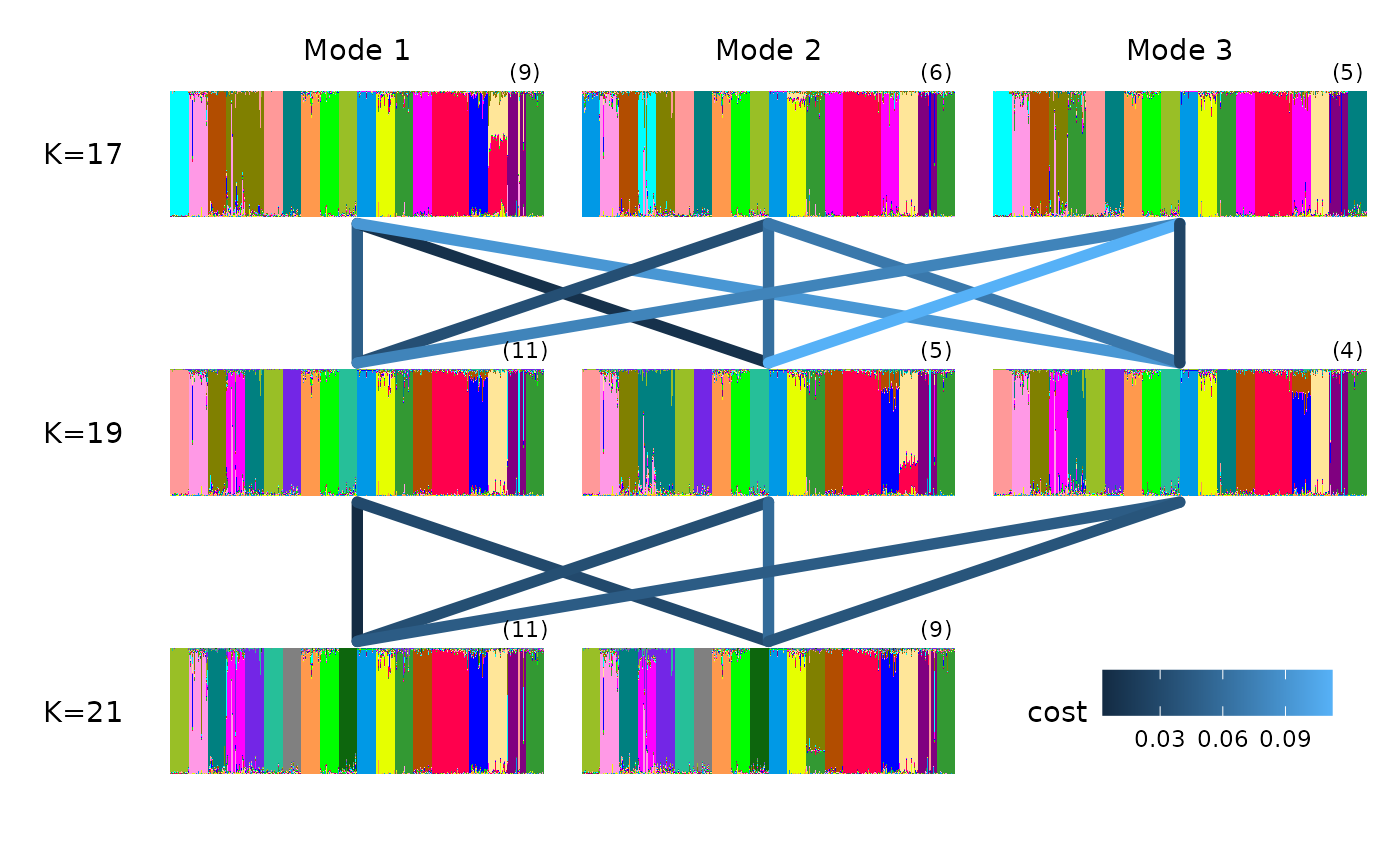
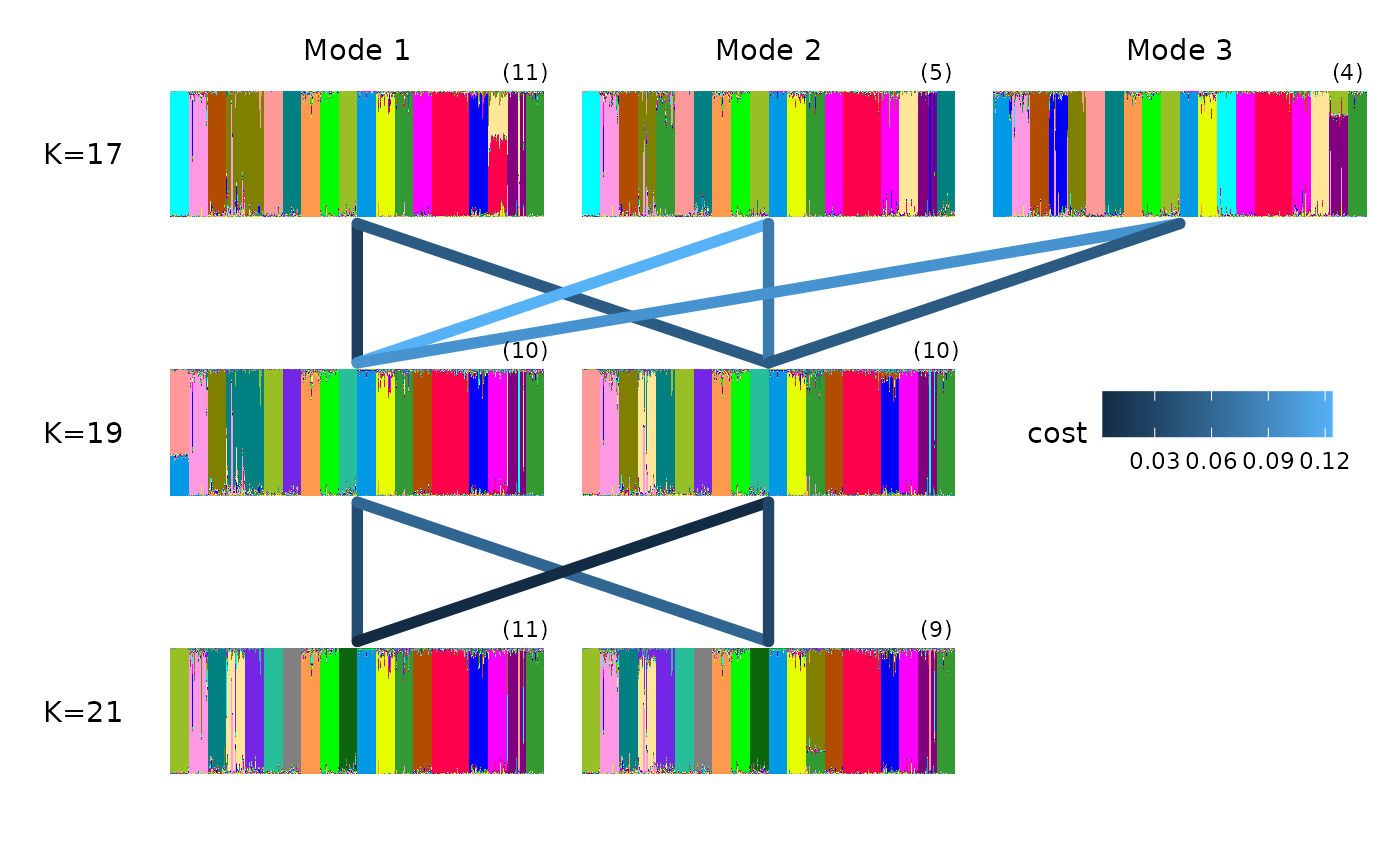
Deploying to gh-pages from @ EvolEcolGroup/tidygenclust@42a4b8d2eb88a1ac18ebc09df4c3a4e124166b53 🚀

diff --git a/reference/tgc_tools_install.html b/reference/tgc_tools_install.html
@@ -1,12 +1,11 @@
 <!DOCTYPE html>
-<!-- Generated by pkgdown: do not edit by hand --><html lang="en"><head><meta http-equiv="Content-Type" content="text/html; charset=UTF-8"><meta charset="utf-8"><meta http-equiv="X-UA-Compatible" content="IE=edge"><meta name="viewport" content="width=device-width, initial-scale=1.0"><title>Install tools for tidygenclust — tgc_tools_install • tidygenclust</title><!-- jquery --><script src="https://cdnjs.cloudflare.com/ajax/libs/jquery/3.7.1/jquery.min.js" integrity="sha512-v2CJ7UaYy4JwqLDIrZUI/4hqeoQieOmAZNXBeQyjo21dadnwR+8ZaIJVT8EE2iyI61OV8e6M8PP2/4hpQINQ/g==" crossorigin="anonymous" referrerpolicy="no-referrer"></script><!-- Bootstrap --><link rel="stylesheet" href="https://cdnjs.cloudflare.com/ajax/libs/twitter-bootstrap/3.4.1/css/bootstrap.min.css" integrity="sha256-bZLfwXAP04zRMK2BjiO8iu9pf4FbLqX6zitd+tIvLhE=" crossorigin="anonymous"><script src="https://cdnjs.cloudflare.com/ajax/libs/twitter-bootstrap/3.4.1/js/bootstrap.min.js" integrity="sha256-nuL8/2cJ5NDSSwnKD8VqreErSWHtnEP9E7AySL+1ev4=" crossorigin="anonymous"></script><!-- bootstrap-toc --><link rel="stylesheet" href="../bootstrap-toc.css"><script src="../bootstrap-toc.js"></script><!-- Font Awesome icons --><link rel="stylesheet" href="https://cdnjs.cloudflare.com/ajax/libs/font-awesome/5.12.1/css/all.min.css" integrity="sha256-mmgLkCYLUQbXn0B1SRqzHar6dCnv9oZFPEC1g1cwlkk=" crossorigin="anonymous"><link rel="stylesheet" href="https://cdnjs.cloudflare.com/ajax/libs/font-awesome/5.12.1/css/v4-shims.min.css" integrity="sha256-wZjR52fzng1pJHwx4aV2AO3yyTOXrcDW7jBpJtTwVxw=" crossorigin="anonymous"><!-- clipboard.js --><script src="https://cdnjs.cloudflare.com/ajax/libs/clipboard.js/2.0.6/clipboard.min.js" integrity="sha256-inc5kl9MA1hkeYUt+EC3BhlIgyp/2jDIyBLS6k3UxPI=" crossorigin="anonymous"></script><!-- headroom.js --><script src="https://cdnjs.cloudflare.com/ajax/libs/headroom/0.11.0/headroom.min.js" integrity="sha256-AsUX4SJE1+yuDu5+mAVzJbuYNPHj/WroHuZ8Ir/CkE0=" crossorigin="anonymous"></script><script src="https://cdnjs.cloudflare.com/ajax/libs/headroom/0.11.0/jQuery.headroom.min.js" integrity="sha256-ZX/yNShbjqsohH1k95liqY9Gd8uOiE1S4vZc+9KQ1K4=" crossorigin="anonymous"></script><!-- pkgdown --><link href="../pkgdown.css" rel="stylesheet"><script src="../pkgdown.js"></script><meta property="og:title" content="Install tools for tidygenclust — tgc_tools_install"><meta property="og:description" content="tidygenclust relies on ADMIXTURE and on python packages fastmixture
-and clumppling for a number of
-functionalities. We use reticulate to install them in conda
-environments. As their dependencies are incompatible, we use two separate
-conda environments, ctidygenclust (for fastmixture and admixture) and
-cclumppling (for clumppling). Additionally, for silicon Macs, ADMIXTURE
-is installed in a separate conda environment cadmixture86, as it is only
-available for OSX as x86 in bioconda."><meta property="og:image" content="/logo.png"><!-- mathjax --><script src="https://cdnjs.cloudflare.com/ajax/libs/mathjax/2.7.5/MathJax.js" integrity="sha256-nvJJv9wWKEm88qvoQl9ekL2J+k/RWIsaSScxxlsrv8k=" crossorigin="anonymous"></script><script src="https://cdnjs.cloudflare.com/ajax/libs/mathjax/2.7.5/config/TeX-AMS-MML_HTMLorMML.js" integrity="sha256-84DKXVJXs0/F8OTMzX4UR909+jtl4G7SPypPavF+GfA=" crossorigin="anonymous"></script><!--[if lt IE 9]>
+<!-- Generated by pkgdown: do not edit by hand --><html lang="en"><head><meta http-equiv="Content-Type" content="text/html; charset=UTF-8"><meta charset="utf-8"><meta http-equiv="X-UA-Compatible" content="IE=edge"><meta name="viewport" content="width=device-width, initial-scale=1.0"><title>Install tools for tidygenclust — tgc_tools_install • tidygenclust</title><!-- jquery --><script src="https://cdnjs.cloudflare.com/ajax/libs/jquery/3.7.1/jquery.min.js" integrity="sha512-v2CJ7UaYy4JwqLDIrZUI/4hqeoQieOmAZNXBeQyjo21dadnwR+8ZaIJVT8EE2iyI61OV8e6M8PP2/4hpQINQ/g==" crossorigin="anonymous" referrerpolicy="no-referrer"></script><!-- Bootstrap --><link rel="stylesheet" href="https://cdnjs.cloudflare.com/ajax/libs/twitter-bootstrap/3.4.1/css/bootstrap.min.css" integrity="sha256-bZLfwXAP04zRMK2BjiO8iu9pf4FbLqX6zitd+tIvLhE=" crossorigin="anonymous"><script src="https://cdnjs.cloudflare.com/ajax/libs/twitter-bootstrap/3.4.1/js/bootstrap.min.js" integrity="sha256-nuL8/2cJ5NDSSwnKD8VqreErSWHtnEP9E7AySL+1ev4=" crossorigin="anonymous"></script><!-- bootstrap-toc --><link rel="stylesheet" href="../bootstrap-toc.css"><script src="../bootstrap-toc.js"></script><!-- Font Awesome icons --><link rel="stylesheet" href="https://cdnjs.cloudflare.com/ajax/libs/font-awesome/5.12.1/css/all.min.css" integrity="sha256-mmgLkCYLUQbXn0B1SRqzHar6dCnv9oZFPEC1g1cwlkk=" crossorigin="anonymous"><link rel="stylesheet" href="https://cdnjs.cloudflare.com/ajax/libs/font-awesome/5.12.1/css/v4-shims.min.css" integrity="sha256-wZjR52fzng1pJHwx4aV2AO3yyTOXrcDW7jBpJtTwVxw=" crossorigin="anonymous"><!-- clipboard.js --><script src="https://cdnjs.cloudflare.com/ajax/libs/clipboard.js/2.0.6/clipboard.min.js" integrity="sha256-inc5kl9MA1hkeYUt+EC3BhlIgyp/2jDIyBLS6k3UxPI=" crossorigin="anonymous"></script><!-- headroom.js --><script src="https://cdnjs.cloudflare.com/ajax/libs/headroom/0.11.0/headroom.min.js" integrity="sha256-AsUX4SJE1+yuDu5+mAVzJbuYNPHj/WroHuZ8Ir/CkE0=" crossorigin="anonymous"></script><script src="https://cdnjs.cloudflare.com/ajax/libs/headroom/0.11.0/jQuery.headroom.min.js" integrity="sha256-ZX/yNShbjqsohH1k95liqY9Gd8uOiE1S4vZc+9KQ1K4=" crossorigin="anonymous"></script><!-- pkgdown --><link href="../pkgdown.css" rel="stylesheet"><script src="../pkgdown.js"></script><meta property="og:title" content="Install tools for tidygenclust — tgc_tools_install"><meta property="og:description" content="tidygenclust relies on ADMIXTURE and on python packages fastmixture and
+clumppling for a number of functionalities. We use reticulate to install
+them in conda environments. As their dependencies are incompatible, we use
+two separate conda environments, ctidygenclust (for fastmixture and
+admixture) and cclumppling (for clumppling). Additionally, for silicon
+Macs, ADMIXTURE is installed in a separate conda environment
+cadmixture86, as it is only available for OSX as x86 in bioconda."><meta property="og:image" content="/logo.png"><!-- mathjax --><script src="https://cdnjs.cloudflare.com/ajax/libs/mathjax/2.7.5/MathJax.js" integrity="sha256-nvJJv9wWKEm88qvoQl9ekL2J+k/RWIsaSScxxlsrv8k=" crossorigin="anonymous"></script><script src="https://cdnjs.cloudflare.com/ajax/libs/mathjax/2.7.5/config/TeX-AMS-MML_HTMLorMML.js" integrity="sha256-84DKXVJXs0/F8OTMzX4UR909+jtl4G7SPypPavF+GfA=" crossorigin="anonymous"></script><!--[if lt IE 9]>
 <script src="https://oss.maxcdn.com/html5shiv/3.7.3/html5shiv.min.js"></script>
 <script src="https://oss.maxcdn.com/respond/1.4.2/respond.min.js"></script>
 <![endif]--></head><body data-spy="scroll" data-target="#toc">
@@ -24,7 +23,7 @@ available for OSX as x86 in bioconda."><meta property="og:image" content="/logo.
       </button>
       <span class="navbar-brand">
         <a class="navbar-link" href="../index.html">tidygenclust</a>
-        <span class="version label label-default" data-toggle="tooltip" data-placement="bottom" title="">0.1.1</span>
+        <span class="version label label-default" data-toggle="tooltip" data-placement="bottom" title="">0.1.2</span>
       </span>
     </div>
 
@@ -53,22 +52,21 @@ available for OSX as x86 in bioconda."><meta property="og:image" content="/logo.
     </div>
 
     <div class="ref-description">
-    <p><code>tidygenclust</code> relies on <code>ADMIXTURE</code> and on python packages <code>fastmixture</code>
-and <code>clumppling</code> for a number of
-functionalities. We use <code>reticulate</code> to install them in conda
-environments. As their dependencies are incompatible, we use two separate
-conda environments, <code>ctidygenclust</code> (for <code>fastmixture</code> and <code>admixture</code>) and
-<code>cclumppling</code> (for <code>clumppling</code>). Additionally, for silicon Macs, <code>ADMIXTURE</code>
-is installed in a separate conda environment <code>cadmixture86</code>, as it is only
-available for OSX as x86 in bioconda.</p>
+    <p><code>tidygenclust</code> relies on <code>ADMIXTURE</code> and on python packages <code>fastmixture</code> and
+<code>clumppling</code> for a number of functionalities. We use <code>reticulate</code> to install
+them in conda environments. As their dependencies are incompatible, we use
+two separate conda environments, <code>ctidygenclust</code> (for <code>fastmixture</code> and
+<code>admixture</code>) and <code>cclumppling</code> (for <code>clumppling</code>). Additionally, for silicon
+Macs, <code>ADMIXTURE</code> is installed in a separate conda environment
+<code>cadmixture86</code>, as it is only available for OSX as x86 in bioconda.</p>
     </div>
 
     <div id="ref-usage">
     <div class="sourceCode"><pre class="sourceCode r"><code><span><span class="fu">tgc_tools_install</span><span class="op">(</span></span>
 <span>  reset <span class="op">=</span> <span class="cn">FALSE</span>,</span>
-<span>  fastmixture_hash <span class="op">=</span> <span class="st">"29e04339ce6ddf750ee4e06f8aabe40335e0d0ee"</span>,</span>
+<span>  fastmixture_hash <span class="op">=</span> <span class="st">"1f03a8980be4872341e5faca9d6f2dfc7ccbfe35"</span>,</span>
 <span>  clumppling_hash <span class="op">=</span> <span class="st">"2d24e0b2f6ddfcb51a436df96a06d5f57d18d20a"</span>,</span>
-<span>  conda_method <span class="op">=</span> <span class="fu"><a href="https://rdrr.io/r/base/c.html" class="external-link">c</a></span><span class="op">(</span><span class="st">"reticulate"</span>, <span class="st">"conda_yaml"</span><span class="op">)</span>,</span>
+<span>  conda_yaml <span class="op">=</span> <span class="st">"auto"</span>,</span>
 <span>  ci_install <span class="op">=</span> <span class="cn">FALSE</span></span>
 <span><span class="op">)</span></span></code></pre></div>
     </div>
@@ -78,8 +76,8 @@ available for OSX as x86 in bioconda.</p>
 
 
 <dl><dt id="arg-reset">reset<a class="anchor" aria-label="anchor" href="#arg-reset"></a></dt>
-<dd><p>a boolean used to reset the virtual environment. Only set
-to TRUE if you have a broken virtual environment that you want to reset.</p></dd>
+<dd><p>a boolean used to reset the virtual environment. Only set to
+TRUE if you have a broken virtual environment that you want to reset.</p></dd>
 
 
 <dt id="arg-fastmixture-hash">fastmixture_hash<a class="anchor" aria-label="anchor" href="#arg-fastmixture-hash"></a></dt>
@@ -92,30 +90,34 @@ version to install. Default is the latest tested version.</p></dd>
 version to install. Default is the latest tested version.</p></dd>
 
 
-<dt id="arg-conda-method">conda_method<a class="anchor" aria-label="anchor" href="#arg-conda-method"></a></dt>
-<dd><p>a string indicating the method to create the environment
-used for <code>fastmixture</code>. Default is <code>reticulate</code>, which uses the
-<code><a href="https://rstudio.github.io/reticulate/reference/conda_run2.html" class="external-link">reticulate::conda_run2()</a></code> function to run the installation commands (this is
-the default, and the only method for Linux.
-Alternatively, for OSX, you can use <code>conda_yaml</code>, which will create a conda
-environment directly with conda. Use this second method if "reticulate" fails
-whilst trying to install on OSX.</p></dd>
+<dt id="arg-conda-yaml">conda_yaml<a class="anchor" aria-label="anchor" href="#arg-conda-yaml"></a></dt>
+<dd><p>A vector of string with the path for the <code>yaml</code> files used
+for installation (one for fastmixture, one for clumppling, and, for osx
+only, one for admixture in 86 compatibility model). The value of each
+string can either be "auto" (the default, select the latest available yaml
+that has been tested to work on a given operating system), NULL (let conda
+attempt to install the latest available packages from the internet), or a
+path to a specific conda yaml found in "inst/env_snapshots". For "auto" or
+NULL, it is also possible to provide a vector of lenght one, and the value
+will apply to all the conda environments (e.g. <code>conda_yaml="auto"</code> is
+equivalent to  <code>conda_yaml = c("auto", "auto")</code> in linux and
+<code>conda_yaml = c("auto", "auto", "auto")</code>.</p></dd>
 
 
 <dt id="arg-ci-install">ci_install<a class="anchor" aria-label="anchor" href="#arg-ci-install"></a></dt>
 <dd><p>a boolean indicating if the installation is being run on
 continuous integration (CI) services. Default is FALSE. If TRUE, the
-function will look for the conda yaml file in the <code>inst/python</code> folder
-of the package source directory, rather than in the installed package
+function will look for the conda yaml file in the <code>inst/python</code> folder of
+the package source directory, rather than in the installed package
 directory. This is useful when testing the package on CI services.</p></dd>
 
 </dl></div>
     <div id="details">
     <h2>Details</h2>
-    <p>For each tool, default to the latest tested version of
-these packages that have been tested to work with <code>tidegenclust</code>. It is
-possible to provide a more recent github commit for a specific tool, but
-this might lead to incompatibilities and errors.</p>
+    <p>For each tool, default to the latest tested version of these
+packages that have been tested to work with <code>tidegenclust</code>. It is possible
+to provide a more recent github commit for a specific tool, but this might
+lead to incompatibilities and errors.</p>
 <p>We have found installation on OSX to be tricky, so we provide two methods
 for installing <code>fastmixture</code> on OSX: <code>reticulate</code> and <code>conda_yaml</code>. The
 <code>reticulate</code> method uses the <code><a href="https://rstudio.github.io/reticulate/reference/conda_run2.html" class="external-link">reticulate::conda_run2()</a></code> function to run

diff --git a/news/index.html b/news/index.html
@@ -17,7 +17,7 @@
       </button>
       <span class="navbar-brand">
         <a class="navbar-link" href="../index.html">tidygenclust</a>
-        <span class="version label label-default" data-toggle="tooltip" data-placement="bottom" title="">0.1.1</span>
+        <span class="version label label-default" data-toggle="tooltip" data-placement="bottom" title="">0.1.2</span>
       </span>
     </div>
 
@@ -44,6 +44,11 @@
 
     </div>
 
+    <div class="section level2">
+<h2 class="page-header" data-toc-text="0.1.2" id="tidygenclust-012">tidygenclust 0.1.2<a class="anchor" aria-label="anchor" href="#tidygenclust-012"></a></h2>
+<ul><li>Updated versions of fastmixture</li>
+<li>Use pre-tested conda environments to avoid dependency hell.</li>
+</ul></div>
     <div class="section level2">
 <h2 class="page-header" data-toc-text="0.1.1" id="tidygenclust-011">tidygenclust 0.1.1<a class="anchor" aria-label="anchor" href="#tidygenclust-011"></a></h2>
 <ul><li>Updated versions of fastmixture and clumppling</li>

diff --git a/authors.html b/authors.html
@@ -17,7 +17,7 @@
       </button>
       <span class="navbar-brand">
         <a class="navbar-link" href="index.html">tidygenclust</a>
-        <span class="version label label-default" data-toggle="tooltip" data-placement="bottom" title="">0.1.1</span>
+        <span class="version label label-default" data-toggle="tooltip" data-placement="bottom" title="">0.1.2</span>
       </span>
     </div>
 
@@ -100,13 +100,13 @@
 
     <p>Tysall E, Hovhannisyan A, Carter E, Pozzi A, Padilla-Iglesias C, Leonardi M, Fatima A, Pelanek O, Stephenson N, Colucci M, Manica A (2026).
 <em>tidygenclust: Clustering for Population Genetics in R</em>.
-R package version 0.1.1.
+R package version 0.1.2.
 </p>
     <pre>@Manual{,
   title = {tidygenclust: Clustering for Population Genetics in R},
   author = {Eirlys Tysall and Anahit Hovhannisyan and Evie Carter and Andrea Pozzi and Cecilia Padilla-Iglesias and Michela Leonardi and Aramish Fatima and Ondrej Pelanek and Nile Stephenson and Margherita Colucci and Andrea Manica},
   year = {2026},
-  note = {R package version 0.1.1},
+  note = {R package version 0.1.2},
 }</pre>
 
   </div>

diff --git a/404.html b/404.html
@@ -33,7 +33,7 @@
       </button>
       <span class="navbar-brand">
         <a class="navbar-link" href="index.html">tidygenclust</a>
-        <span class="version label label-default" data-toggle="tooltip" data-placement="bottom" title="">0.1.1</span>
+        <span class="version label label-default" data-toggle="tooltip" data-placement="bottom" title="">0.1.2</span>
       </span>
     </div>
 

diff --git a/LICENSE.html b/LICENSE.html
@@ -17,7 +17,7 @@
       </button>
       <span class="navbar-brand">
         <a class="navbar-link" href="index.html">tidygenclust</a>
-        <span class="version label label-default" data-toggle="tooltip" data-placement="bottom" title="">0.1.1</span>
+        <span class="version label label-default" data-toggle="tooltip" data-placement="bottom" title="">0.1.2</span>
       </span>
     </div>
 

diff --git a/articles/index.html b/articles/index.html
@@ -17,7 +17,7 @@
       </button>
       <span class="navbar-brand">
         <a class="navbar-link" href="../index.html">tidygenclust</a>
-        <span class="version label label-default" data-toggle="tooltip" data-placement="bottom" title="">0.1.1</span>
+        <span class="version label label-default" data-toggle="tooltip" data-placement="bottom" title="">0.1.2</span>
       </span>
     </div>
 

diff --git a/articles/tidygenclust.html b/articles/tidygenclust.html
@@ -32,7 +32,7 @@
       </button>
       <span class="navbar-brand">
         <a class="navbar-link" href="../index.html">tidygenclust</a>
-        <span class="version label label-default" data-toggle="tooltip" data-placement="bottom" title="">0.1.1</span>
+        <span class="version label label-default" data-toggle="tooltip" data-placement="bottom" title="">0.1.2</span>
       </span>
     </div>
 

diff --git a/index.html b/index.html
@@ -34,7 +34,7 @@
       </button>
       <span class="navbar-brand">
         <a class="navbar-link" href="index.html">tidygenclust</a>
-        <span class="version label label-default" data-toggle="tooltip" data-placement="bottom" title="">0.1.1</span>
+        <span class="version label label-default" data-toggle="tooltip" data-placement="bottom" title="">0.1.2</span>
       </span>
     </div>
 

diff --git a/reference/autoplot_gt_clumppling.html b/reference/autoplot_gt_clumppling.html
@@ -29,7 +29,7 @@ plots.
       </button>
       <span class="navbar-brand">
         <a class="navbar-link" href="../index.html">tidygenclust</a>
-        <span class="version label label-default" data-toggle="tooltip" data-placement="bottom" title="">0.1.1</span>
+        <span class="version label label-default" data-toggle="tooltip" data-placement="bottom" title="">0.1.2</span>
       </span>
     </div>
 

diff --git a/reference/capeverde_pops.html b/reference/capeverde_pops.html
@@ -18,7 +18,7 @@ Cape Verdean. This dataset is used as an example for clumppling."><meta property
       </button>
       <span class="navbar-brand">
         <a class="navbar-link" href="../index.html">tidygenclust</a>
-        <span class="version label label-default" data-toggle="tooltip" data-placement="bottom" title="">0.1.1</span>
+        <span class="version label label-default" data-toggle="tooltip" data-placement="bottom" title="">0.1.2</span>
       </span>
     </div>
 

diff --git a/reference/gt_clumppling.html b/reference/gt_clumppling.html
@@ -17,7 +17,7 @@
       </button>
       <span class="navbar-brand">
         <a class="navbar-link" href="../index.html">tidygenclust</a>
-        <span class="version label label-default" data-toggle="tooltip" data-placement="bottom" title="">0.1.1</span>
+        <span class="version label label-default" data-toggle="tooltip" data-placement="bottom" title="">0.1.2</span>
       </span>
     </div>
 

diff --git a/reference/gt_fastmixture.html b/reference/gt_fastmixture.html
@@ -20,7 +20,7 @@ that you cite the relevant paper by Santander, Refoyo-Martínez, and Meisner
       </button>
       <span class="navbar-brand">
         <a class="navbar-link" href="../index.html">tidygenclust</a>
-        <span class="version label label-default" data-toggle="tooltip" data-placement="bottom" title="">0.1.1</span>
+        <span class="version label label-default" data-toggle="tooltip" data-placement="bottom" title="">0.1.2</span>
       </span>
     </div>
 